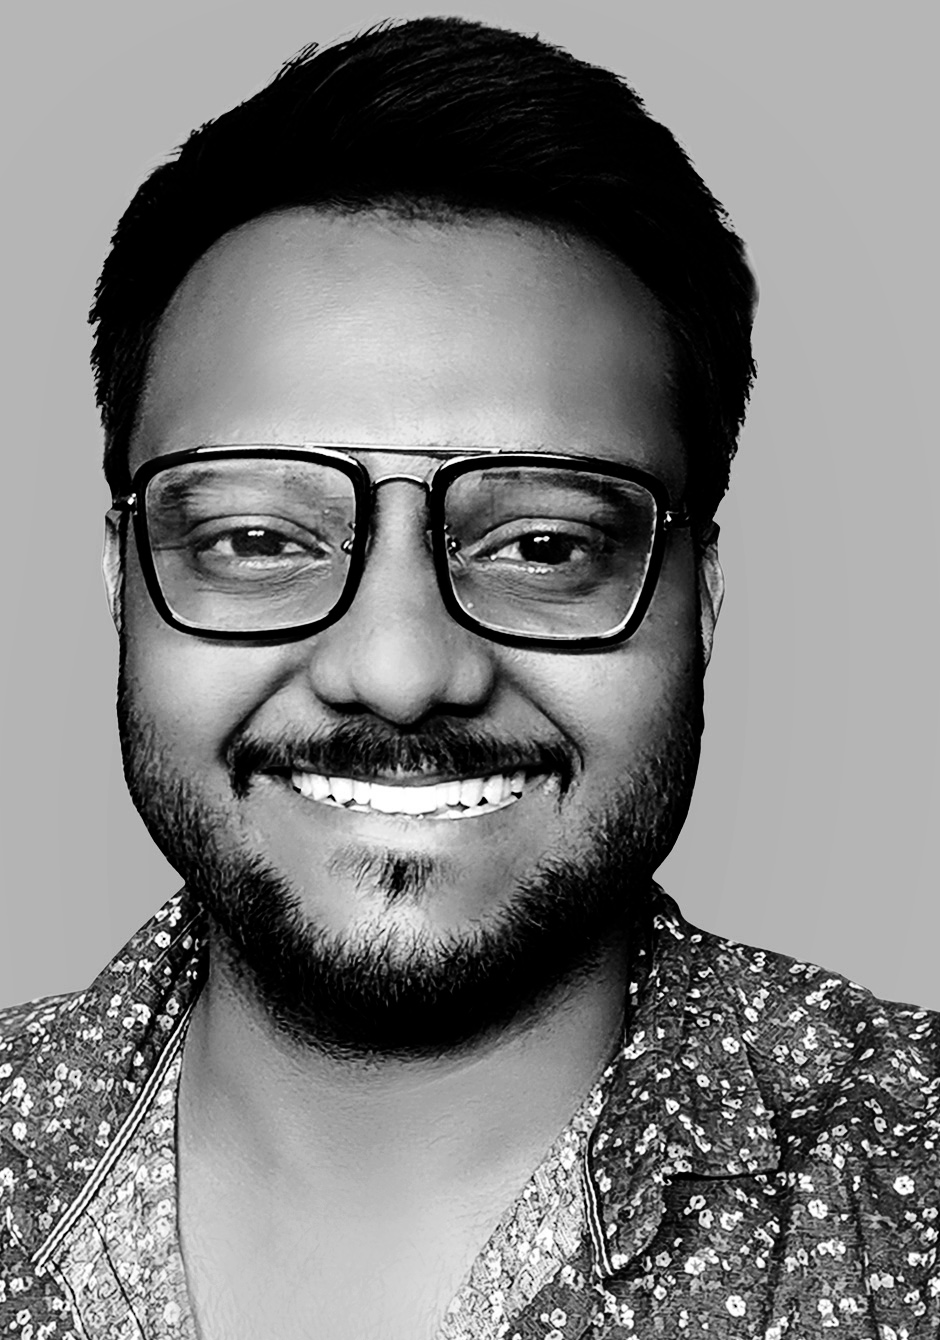
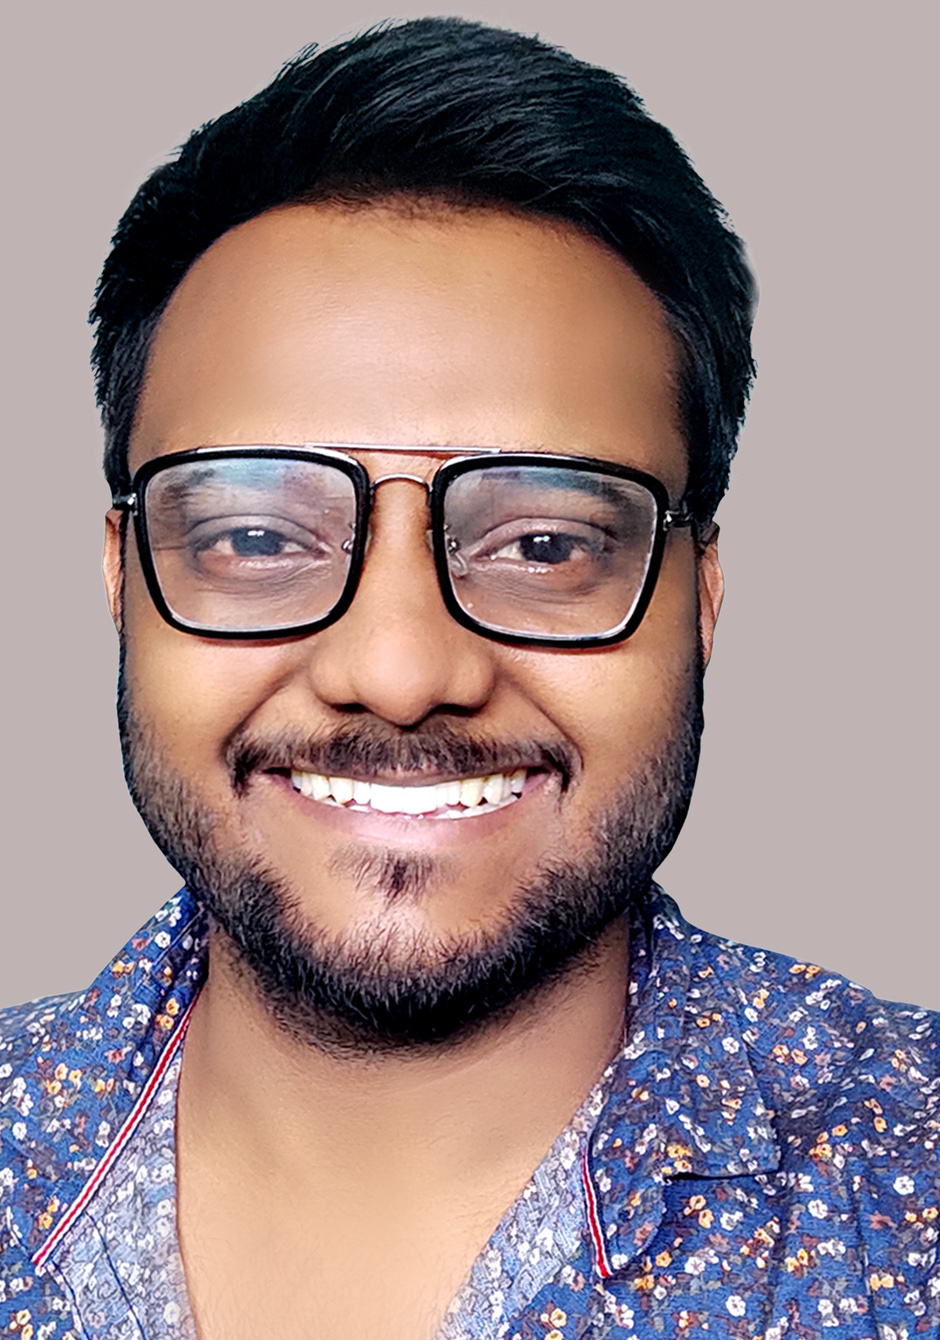
ready to deploy

diff --git a/src/components/About.js b/src/components/About.js
@@ -5,16 +5,16 @@ import imageUrl from '../assets/Resume.pdf';
 const About = () => {
   return (
     <ContainerWidth >
-        <div className='py-16'>
-            <h2 className='text-xl mb-10 leading-10'>Hello_</h2>
-           <p className='text-base font-normal leading-7 mb-7'>My name is BHASKAR, I have compIeted my bachelor's in computer science from Gurukula Kangri University in india and I'm passionate Frontend | UI Developer and I have experience on and I am always eager to explore new computer science Technology, I developed web applications and UI of websites.</p>
-           <a href={`${imageUrl}?dl=` }target='_blank' rel='noreferrer' download onClick ={(e) =>e.stopPropagation()}>
-           <button className='text-sm font-medium text-balck border-solid border-2 border-white py-2 px-5 outline-none mr-3 rounded-full bg-purple text-white'>
-        Resume
-           </button>
-           </a>
-            </div>
-        </ContainerWidth>
+      <div className='py-16'>
+        <h2 className='text-xl mb-10 leading-10'>Hello_</h2>
+        <p className='text-base font-normal leading-7 mb-7'>My name is <b>BHASKAR</b>, I have compIeted my bachelor's in computer science from Gurukul Kangri University in india and I'm passionate Frontend | UI Developer and I have experience on that, I developed web applications and UI of websites and I am always eager to explore new computer science Technology and also active  to learn <b>MERN</b> Stack.</p>
+        <a href={`${imageUrl}?dl=`} target='_blank' rel='noreferrer' download onClick={(e) => e.stopPropagation()}>
+          <button className='text-sm font-medium text-balck border-solid border-2 border-white py-2 px-5 outline-none mr-3 rounded-full bg-purple text-white'>
+            Resume
+          </button>
+        </a>
+      </div>
+    </ContainerWidth>
   )
 }
 

diff --git a/public/index.html b/public/index.html
@@ -10,34 +10,13 @@
       content="Web site created using create-react-app"
     />
     <link rel="apple-touch-icon" href="%PUBLIC_URL%/logo192.png" />
-    <!--
-      manifest.json provides metadata used when your web app is installed on a
-      user's mobile device or desktop. See https://developers.google.com/web/fundamentals/web-app-manifest/
-    -->
     <link rel="manifest" href="%PUBLIC_URL%/manifest.json" />
-    <!--
-      Notice the use of %PUBLIC_URL% in the tags above.
-      It will be replaced with the URL of the `public` folder during the build.
-      Only files inside the `public` folder can be referenced from the HTML.
 
-      Unlike "/favicon.ico" or "favicon.ico", "%PUBLIC_URL%/favicon.ico" will
-      work correctly both with client-side routing and a non-root public URL.
-      Learn how to configure a non-root public URL by running `npm run build`.
-    -->
-    <title>React App</title>
+    <title>BHASKAR</title>
   </head>
   <body>
     <noscript>You need to enable JavaScript to run this app.</noscript>
     <div id="root"></div>
-    <!--
-      This HTML file is a template.
-      If you open it directly in the browser, you will see an empty page.
 
-      You can add webfonts, meta tags, or analytics to this file.
-      The build step will place the bundled scripts into the <body> tag.
-
-      To begin the development, run `npm start` or `yarn start`.
-      To create a production bundle, use `npm run build` or `yarn build`.
-    -->
   </body>
 </html>

diff --git a/src/components/Info.js b/src/components/Info.js
@@ -2,11 +2,12 @@ import React from 'react';
 import {BsLinkedin, BsGithub} from 'react-icons/bs';
 import PersonalDetail from './PersonalDetail';
 
+
 const  Info = () => {
   return (
     <div className='flex-1 max-w-2xl pr-2 pl-2'>
     <p className='sm:mt-10 text-xl mt-20 text-center sm:text-left sm:text-5xl font-semibold leading-tight tracking-wide mb-2.5 text-white'>BHASKAR</p>
-    <p className='text-white mb-10 text-base leading-normal text-center sm:text-left'>Frontend Developer</p>
+    <p className='text-white mb-10 text-base leading-normal text-center sm:text-left'>Frontend | UI Developer</p>
     {/* <p className='text-white mb-10 text-lg leading-normal'>
 I Develop user interface of websites and web applications, currently I am using React Frontend Technology for Development and also conversion of PSD into HTML and way to become MERN stack Developer .</p> */}
 <div className='text-white mb-5'>

diff --git a/src/components/Header.js b/src/components/Header.js
@@ -13,7 +13,7 @@ const Header = () => {
         
           <div className='flex-1 max-w-sm   pr-3.5 pl-3.5 rounded-md '>
             {/* image */}
-                <img src='/images/profile1.jpg' alt='profile1' className='w-10/12 object-cover relative top-10 rounded-md mt-2.5 align-middle' />
+                <img src='/images/profile.jpg' alt='profile1' className='w-10/12 object-cover relative top-10 rounded-md mt-2.5 align-middle' />
             </div>
 
            <Info />

diff --git a/src/components/ProjectContent.js b/src/components/ProjectContent.js
@@ -8,7 +8,7 @@ const ProjectContent = () => {
 
   return (
     <ContainerWidth>
-          <div className='grid 2xl:grid-cols-3 grid-cols-1 sm:grid-cols-2 gap-x-20  gap-y-8 place-items-center'>
+          <div className='grid 2xl:grid-cols-3 grid-cols-1 sm:grid-cols-2 gap-x-20  gap-y-8 place-items-center pb-10'>
        {
          content.map(innerContent => (
            <>

diff --git a/src/Layout/Layout.js b/src/Layout/Layout.js
@@ -1,4 +1,5 @@
 import React from 'react'
+import Footer from '../components/Footer';
 import Navigation from '../components/Navigation'
 import ContainerWidth from './ContainerWidth';
 
@@ -18,8 +19,8 @@ const Layout = ({children , height}) => {
         children
     }
   
-     
        </ContainerWidth>
+     {/* <Footer /> */}
     </header>
   )
 }

diff --git a/src/Pages/Project.js b/src/Pages/Project.js
@@ -1,4 +1,5 @@
 import React from 'react'
+import Footer from '../components/Footer'
 import ProjectContent from '../components/ProjectContent'
 import ProjectHeader from '../components/ProjectHeader'
 
@@ -8,6 +9,7 @@ const Project = () => {
 <>
 <ProjectHeader />
 <ProjectContent />
+<Footer />
 </>
   )
 }

diff --git a/src/Pages/Home.js b/src/Pages/Home.js
@@ -1,6 +1,7 @@
 import React from 'react';
 import Header from '../components/Header';
 import About from '../components/About';
+import Footer from '../components/Footer';
 
 
 const Home = () => {
@@ -8,6 +9,7 @@ const Home = () => {
     <>
     <Header />
     <About />
+    <Footer />
     </>
   )
 }

diff --git a/src/components/Footer.js b/src/components/Footer.js
@@ -1,0 +1,11 @@
+import React from 'react'
+
+const Footer = () => {
+  return (
+    <div className='text-center pb-4' >
+      <h2>&copy; BHASKAR 2022</h2>
+    </div>
+  )
+}
+
+export default Footer

diff --git a/src/index.js b/src/index.js
@@ -8,4 +8,4 @@ ReactDOM.render(
     <BrowserRouter>
 <App />
     </BrowserRouter>
-    , document.getElementById('root'));
+, document.getElementById('root'));
